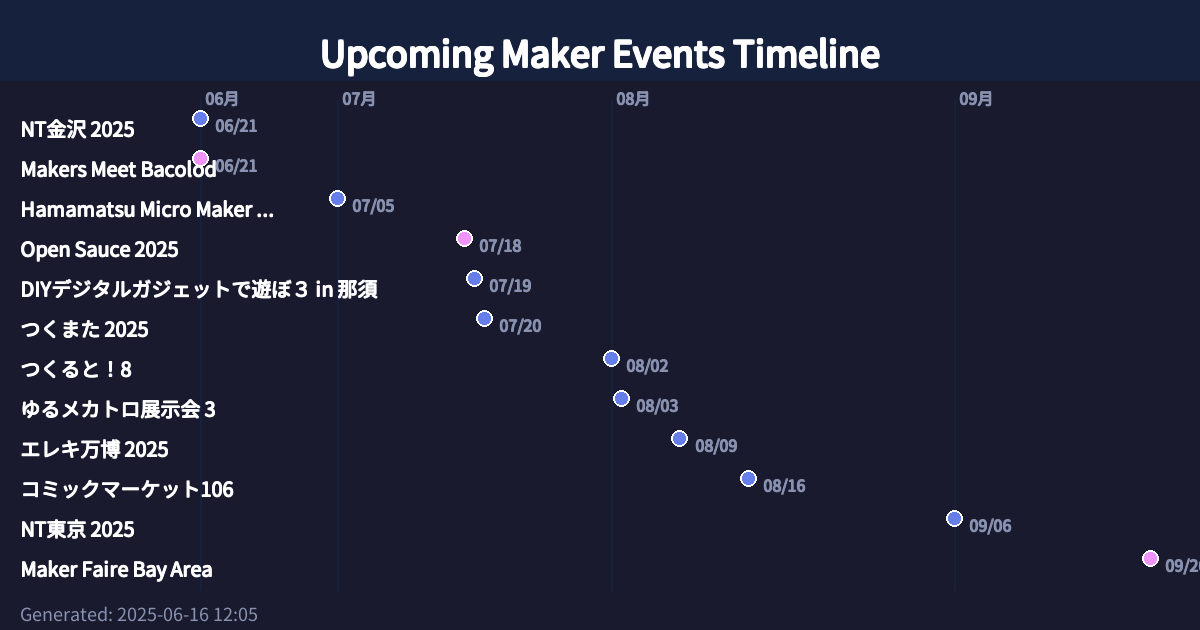
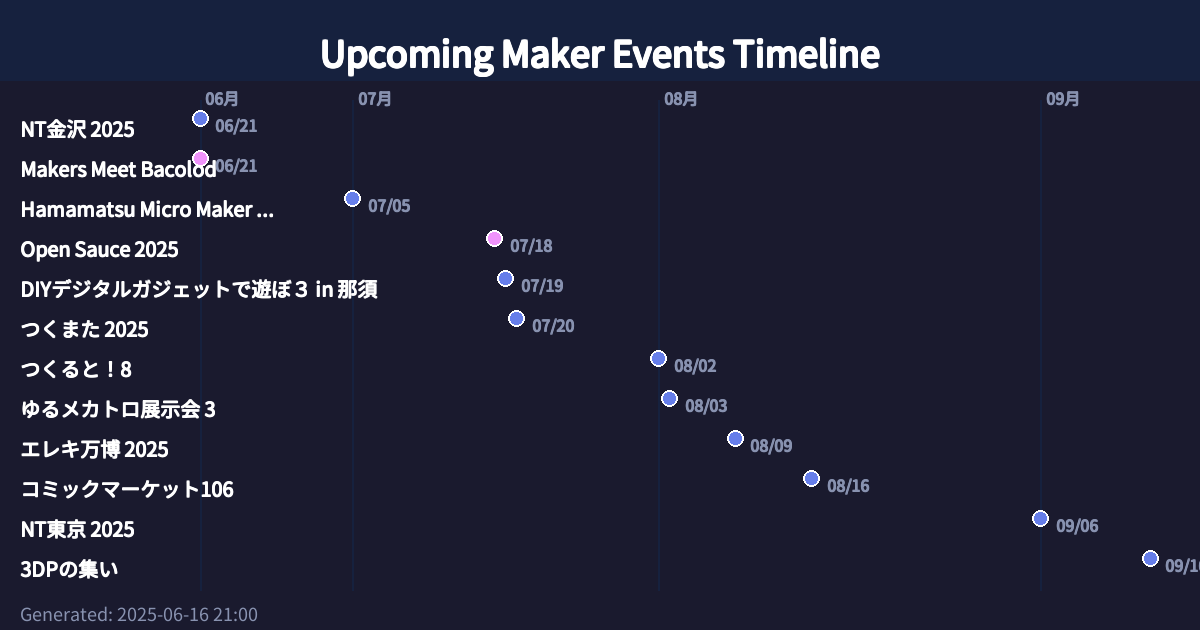
更新

diff --git a/index.html b/index.html
@@ -7,7 +7,7 @@
     
     <!-- OGP Meta Tags for Social Media Sharing -->
     <meta property="og:title" content="Upcoming Maker Events | 今後のメイカーイベント">
-    <meta property="og:description" content="世界中のメイカーイベント情報を一覧で確認。Maker Faire、NT、技術書典など22件のイベント情報を掲載。 | Discover upcoming maker events worldwide including Maker Faires, technical conferences, and maker gatherings.">
+    <meta property="og:description" content="世界中のメイカーイベント情報を一覧で確認。Maker Faire、NT、技術書典など23件のイベント情報を掲載。 | Discover upcoming maker events worldwide including Maker Faires, technical conferences, and maker gatherings.">
     <meta property="og:type" content="website">
     <meta property="og:url" content="https://shinichi-ohki.github.io/maker_event/">
     <meta property="og:image" content="https://shinichi-ohki.github.io/maker_event/ogp_image.png">
@@ -17,11 +17,11 @@
     <!-- Twitter Card -->
     <meta name="twitter:card" content="summary_large_image">
     <meta name="twitter:title" content="Upcoming Maker Events | 今後のメイカーイベント">
-    <meta name="twitter:description" content="世界中のメイカーイベント情報を一覧で確認。22件のイベント情報を掲載。">
+    <meta name="twitter:description" content="世界中のメイカーイベント情報を一覧で確認。23件のイベント情報を掲載。">
     <meta name="twitter:image" content="https://shinichi-ohki.github.io/maker_event/ogp_image.png">
     
     <!-- Standard Meta Tags -->
-    <meta name="description" content="世界中のメイカーイベント情報を一覧で確認。Maker Faire、NT、技術書典など22件のイベント情報を掲載。">
+    <meta name="description" content="世界中のメイカーイベント情報を一覧で確認。Maker Faire、NT、技術書典など23件のイベント情報を掲載。">
     <meta name="keywords" content="Maker Faire, メイカーイベント, 技術イベント, NT, 技術書典, DIY, ハードウェア, プログラミング">
     <meta name="author" content="Maker Events Team">
     <style>
@@ -367,6 +367,25 @@
                         
                         
                         <a href="https://nt-tokyo.org/" class="event-link" target="_blank">詳細を見る</a>
+                        
+                    </div>
+                </div>
+                
+                <div class="event-card">
+                    <div class="event-image">
+                        
+                            <img src="https://assets.st-note.com/production/uploads/images/193757055/rectangle_large_type_2_521588330024fa07f91ef3acb008a0f2.png?fit=bounds&quality=85&width=1280" alt="3DPの集い" style="width: 100%; height: 100%; object-fit: cover;">
+                        
+                    </div>
+                    <div class="event-content">
+                        
+                        <div class="event-date">2025年09月16日</div>
+                        
+                        <h3 class="event-title">3DPの集い</h3>
+                        <p class="event-location">大阪市中央公会堂, 大阪, 日本</p>
+                        
+                        
+                        <a href="https://note.com/ysk1025/n/n9d8797a24e74" class="event-link" target="_blank">詳細を見る</a>
                         
                     </div>
                 </div>
